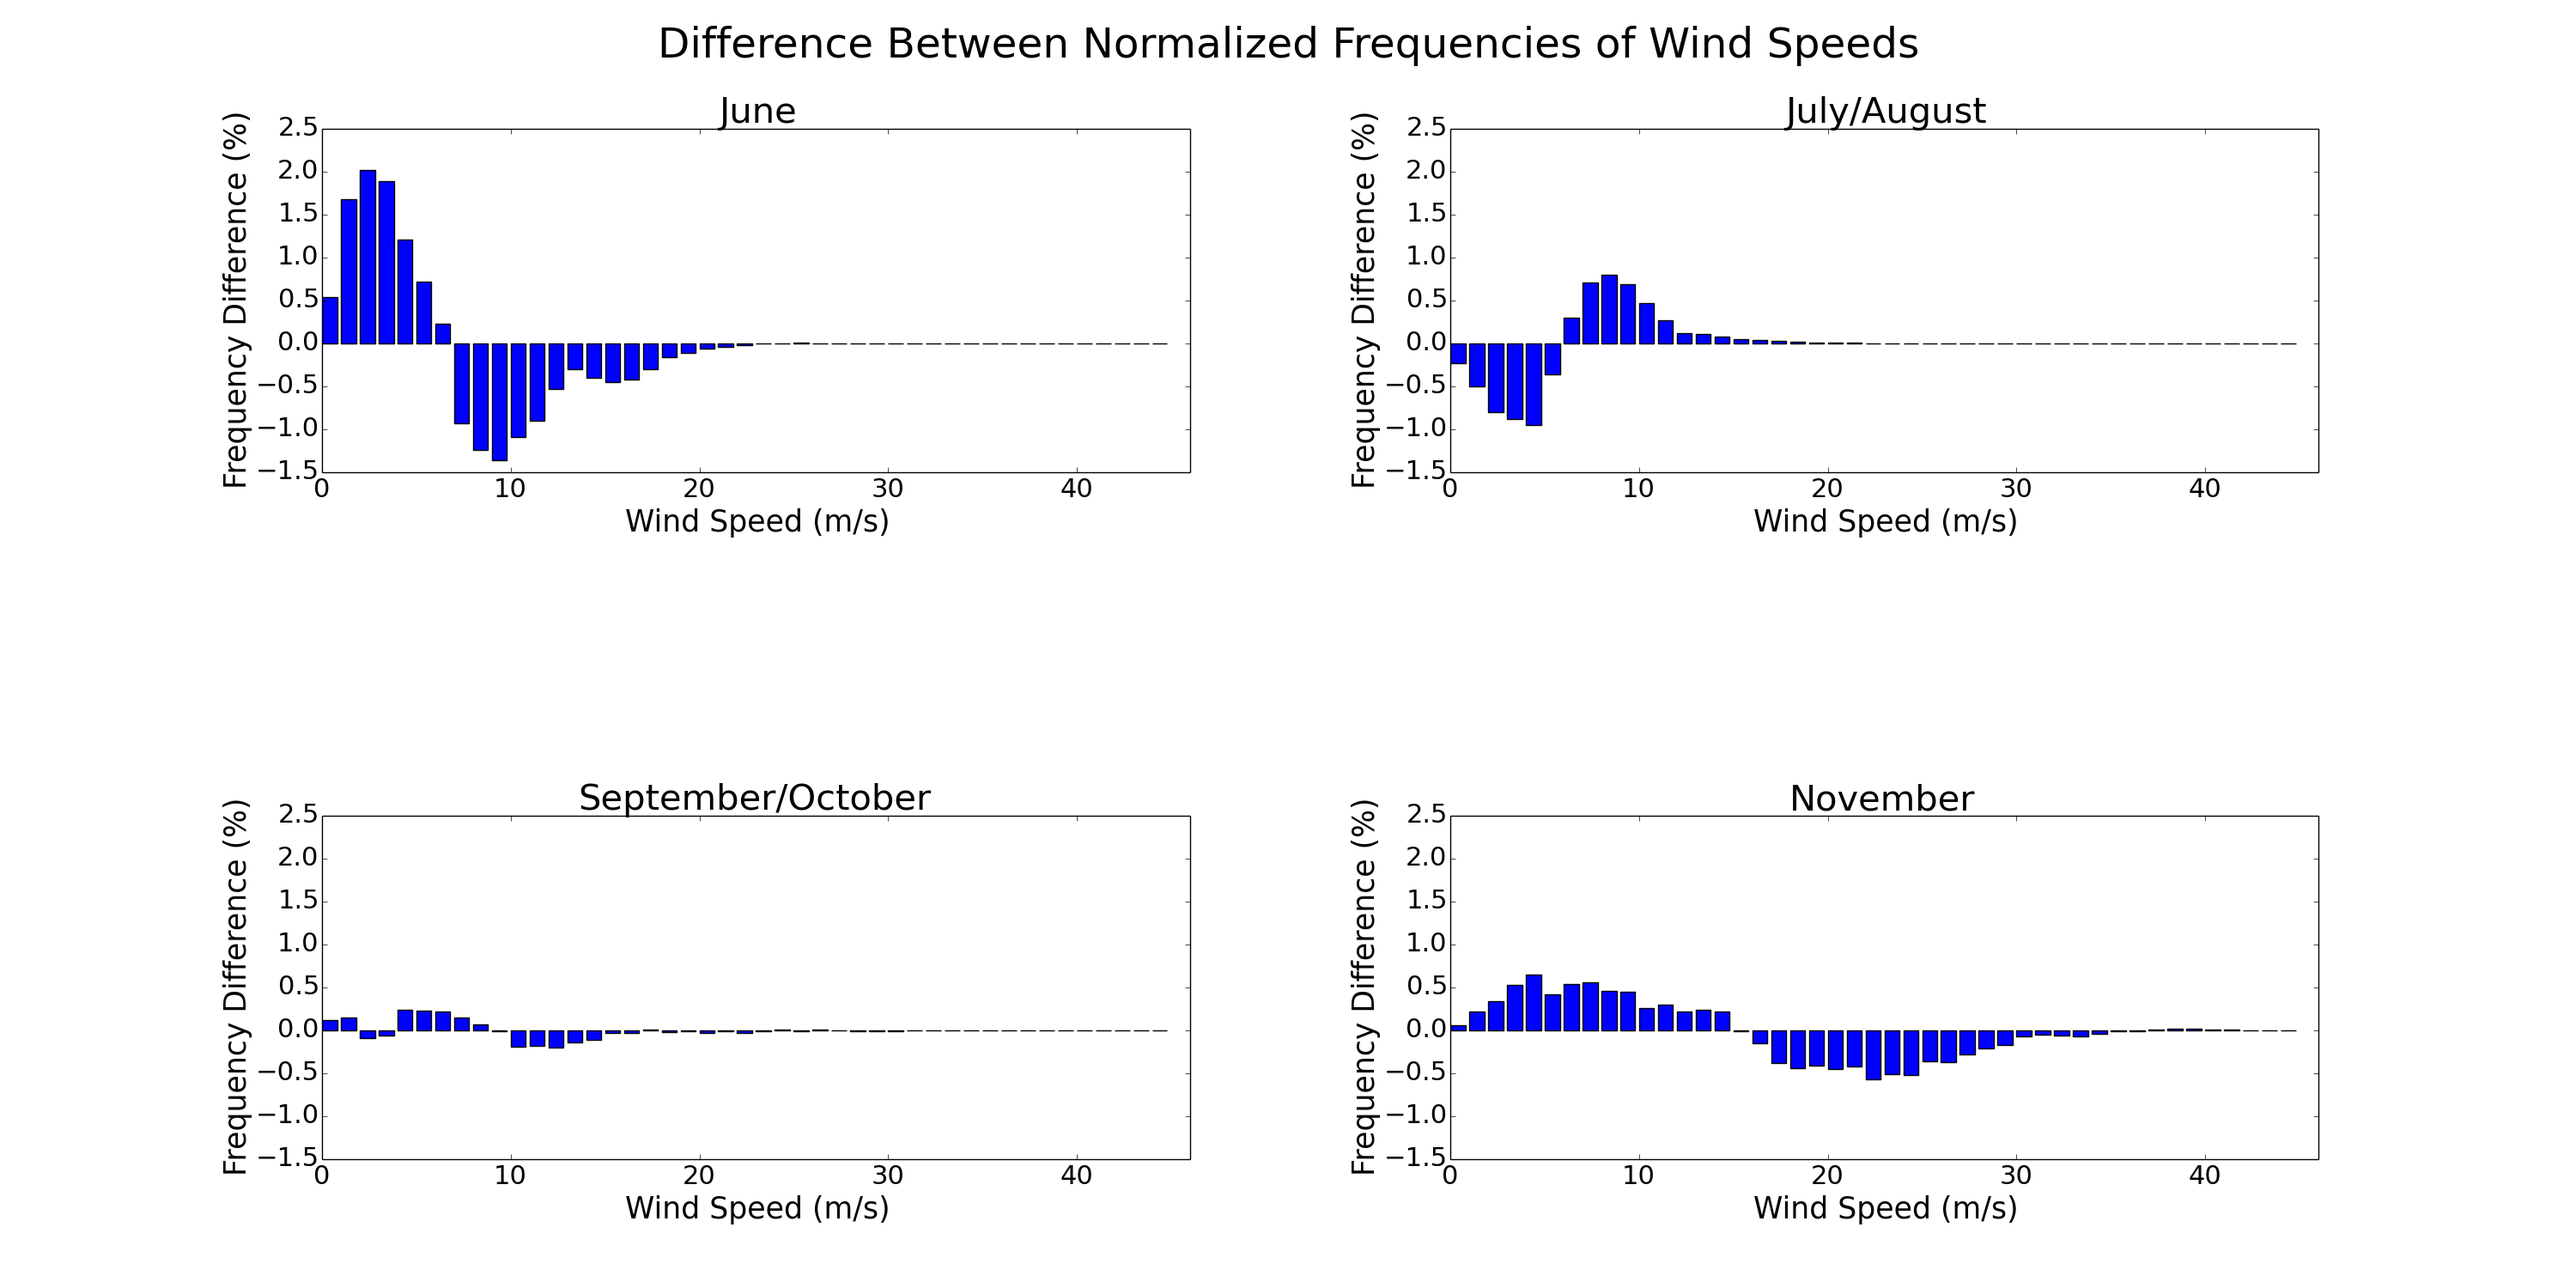
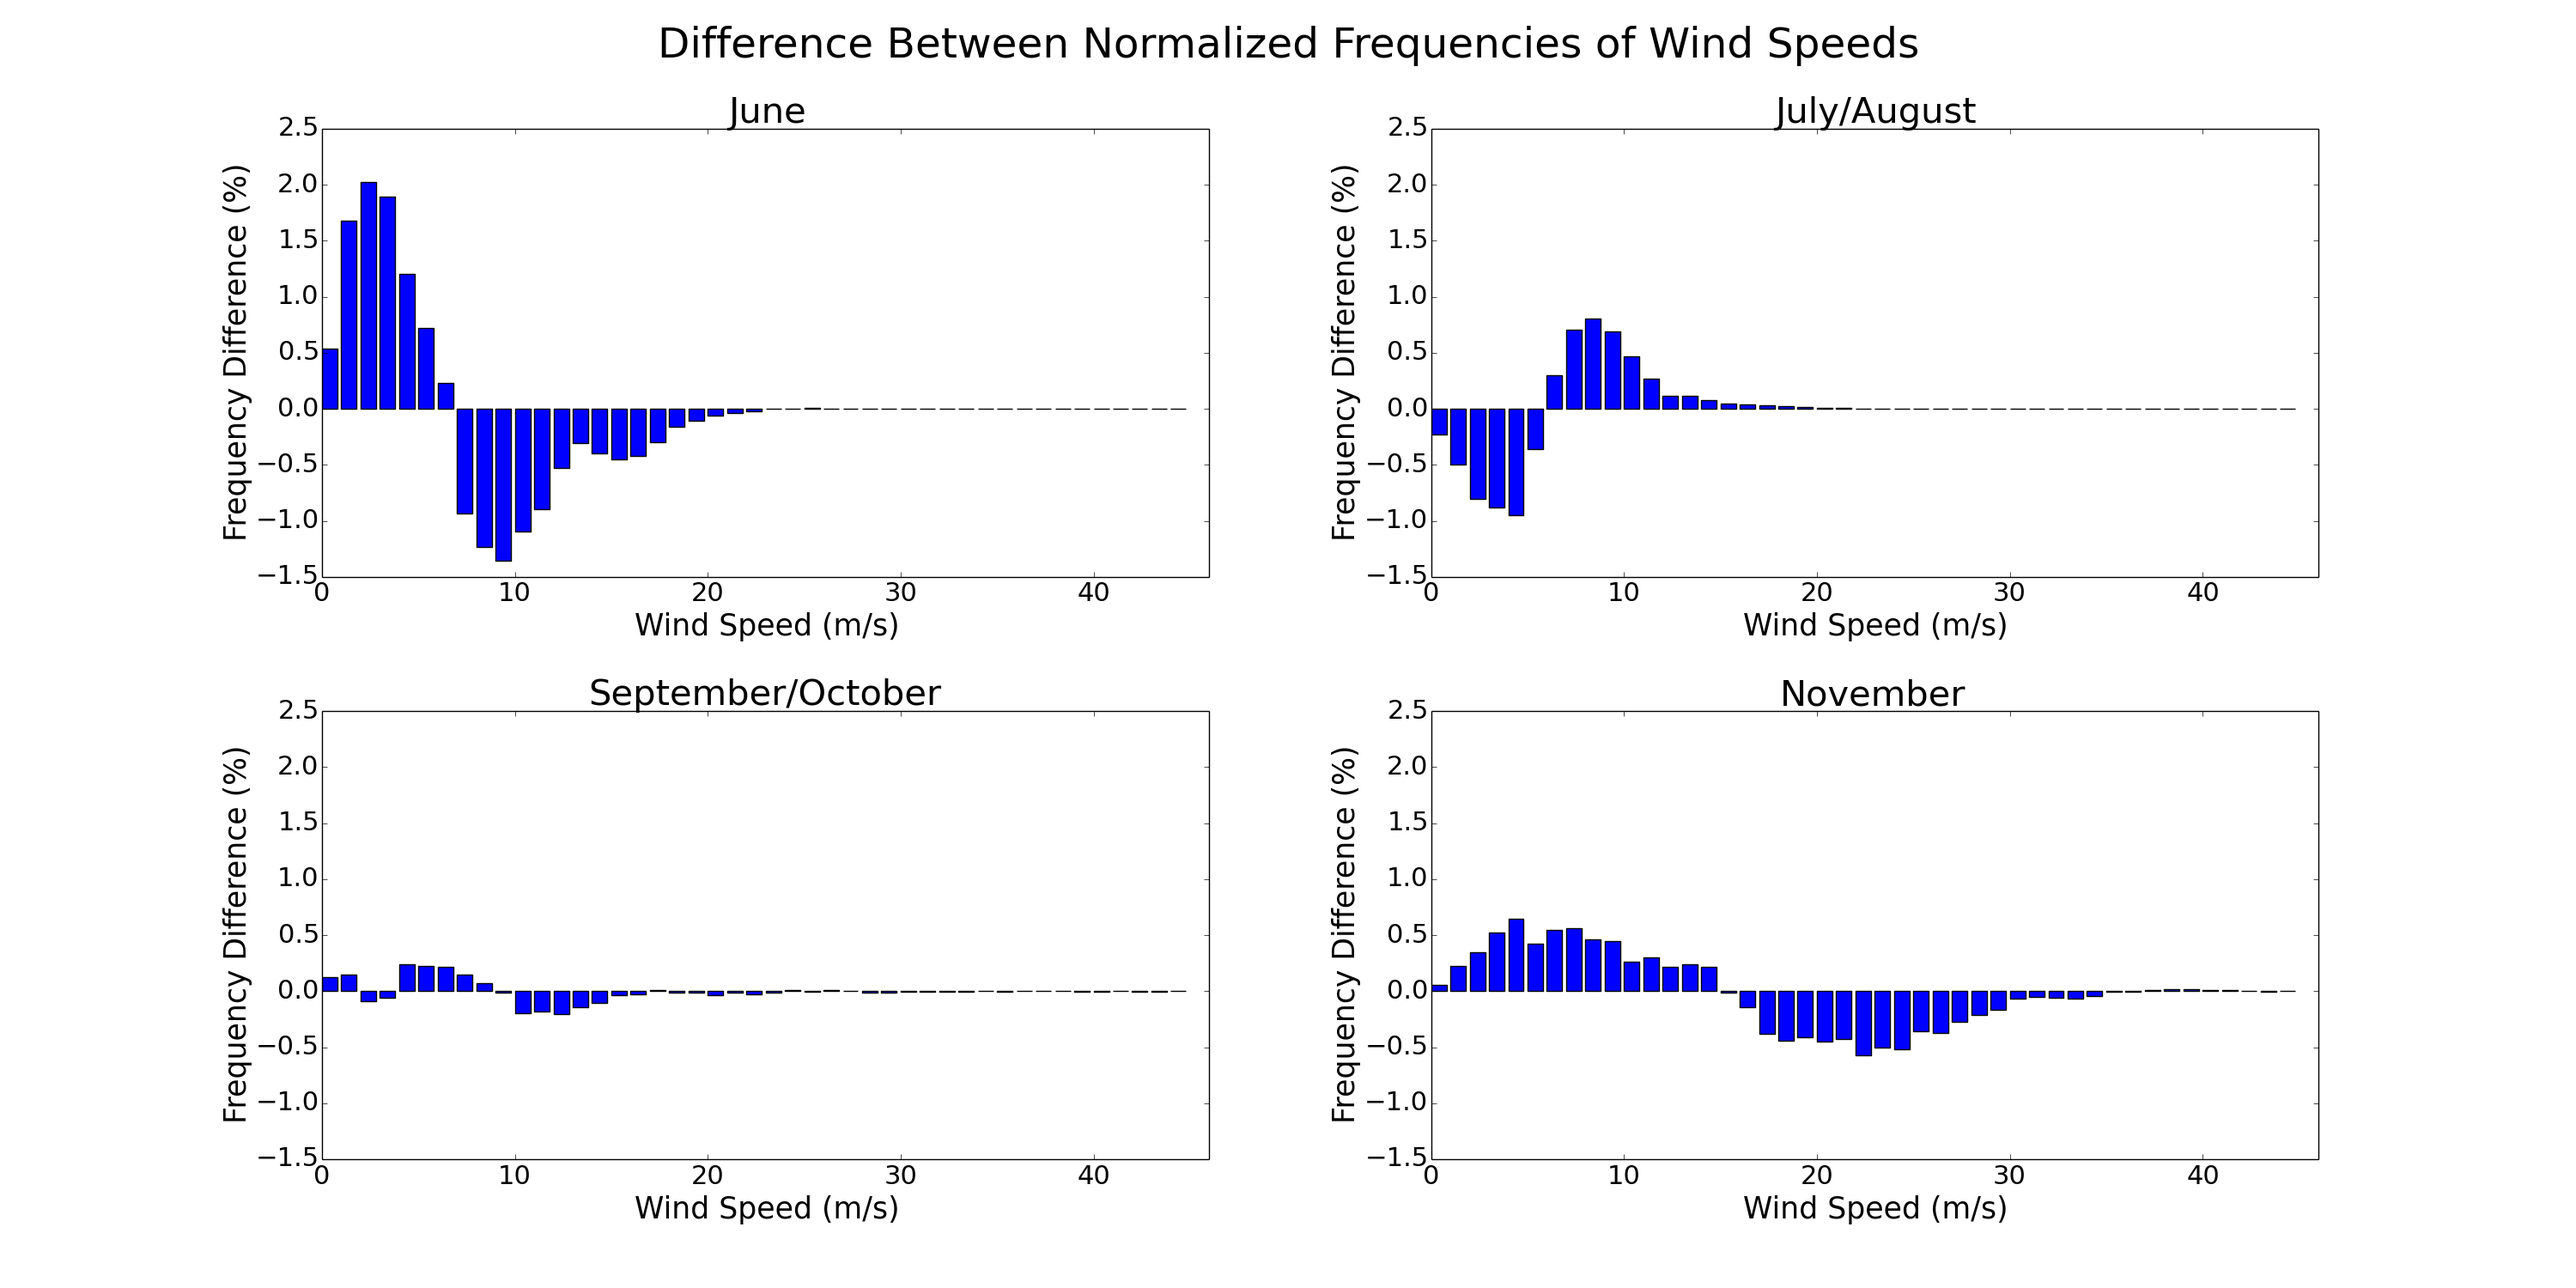
Fixed 2x2 subplot

diff --git a/DLM_stats.py b/DLM_stats.py
@@ -1688,7 +1688,7 @@ plt.ylabel('Frequency Difference (%)')
 plt.xlabel('Wind Speed (m/s)')
 plt.title('November')
 
-plt.subplots_adjust(left = 0.125, bottom = 0.1, right = 0.9, top = 0.9, wspace = 0.3, hspace = 1)
+plt.subplots_adjust(left = 0.125, bottom = 0.1, right = 0.9, top = 0.9, wspace = 0.25, hspace = 0.3)
 
 plt.savefig('Figures/Filtered_Norm_Wind_Speeds_' + location_names[region][0] + '_79-97_98-16_Diff_2x2_Histogram.png')
 plt.show()
